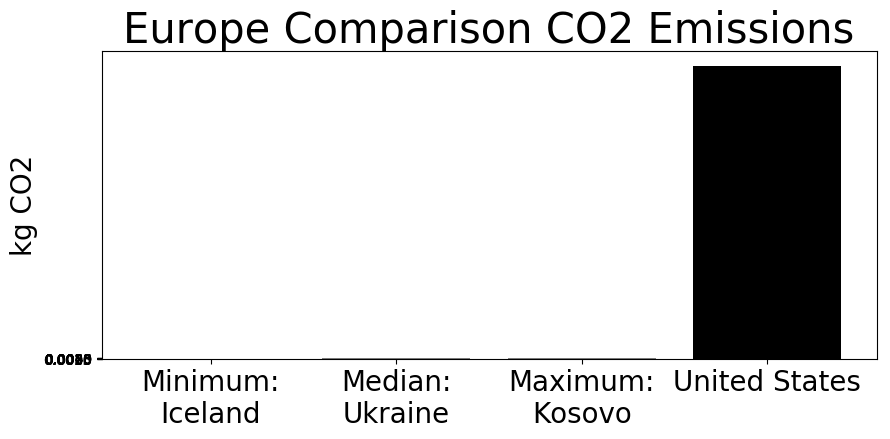
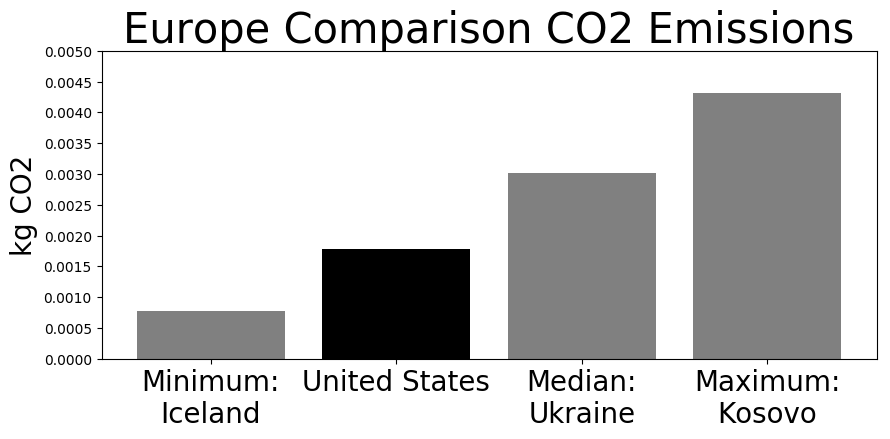
checking png

diff --git a/energyusage/evaluate.py b/energyusage/evaluate.py
@@ -315,7 +315,7 @@ def png_bar_chart(location, emission, default_emissions):
     global_dict = {"Mongolia" : 4.23e-03, "South Korea" : 3.45e-03, "Bhutan" : 4.81e-04}
     eu_dict = {"Kosovo" : 4.32e-03, "Ukraine" : 3.02e-03, "Iceland" : 7.77e-04}
     us_dict = {"Wyoming" : 4.21e-03, "Mississippi" : 1.95e-03, "Vermont" : 1.18e-04}
-    graph.make_comparison_bar_charts(location, emission, us_dict, eu_dict, global_dict)
+    graph.make_comparison_bar_charts(location, 1.78e-03, us_dict, eu_dict, global_dict)
 
 def evaluate(user_func, *args, pdf=False, png = False, powerLoss=0.8, energyOutput=False, \
 locations=["Mongolia", "Iceland", "Switzerland"], year="2016", printToScreen = True):
